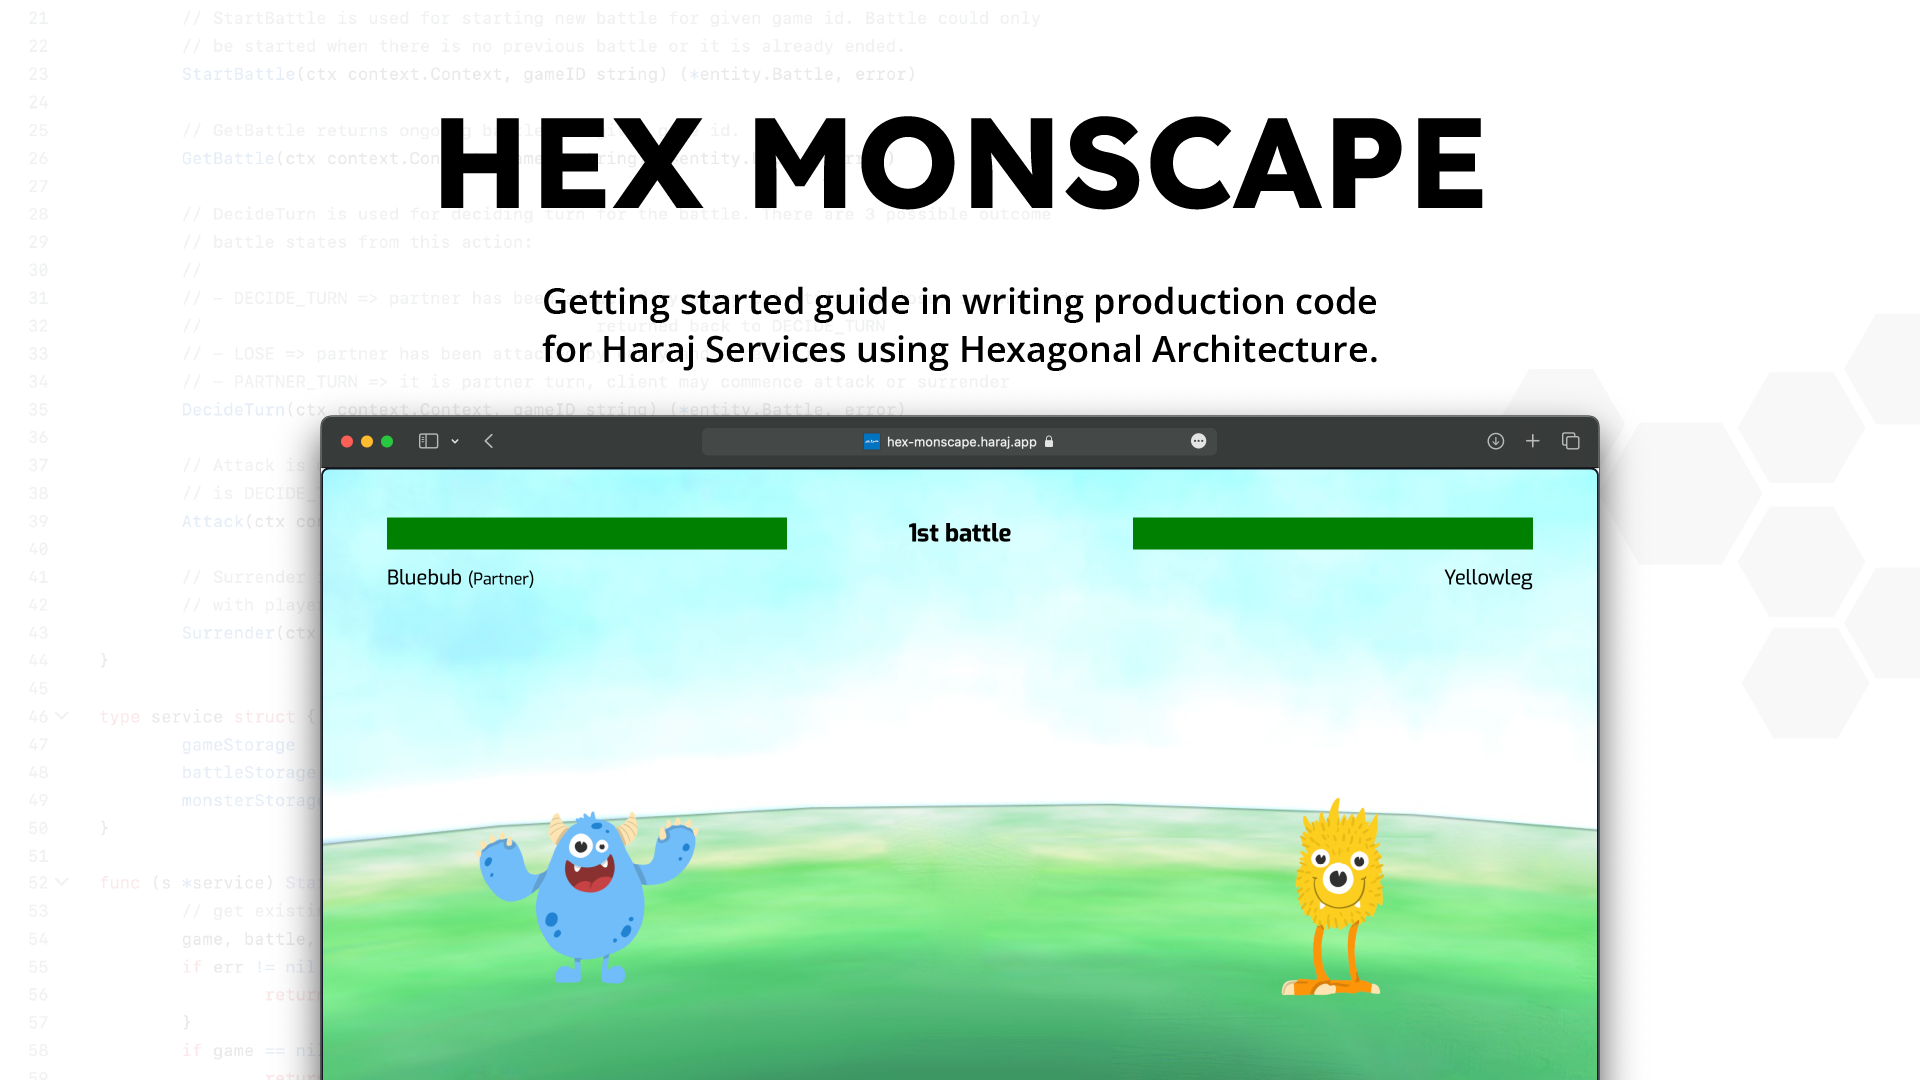
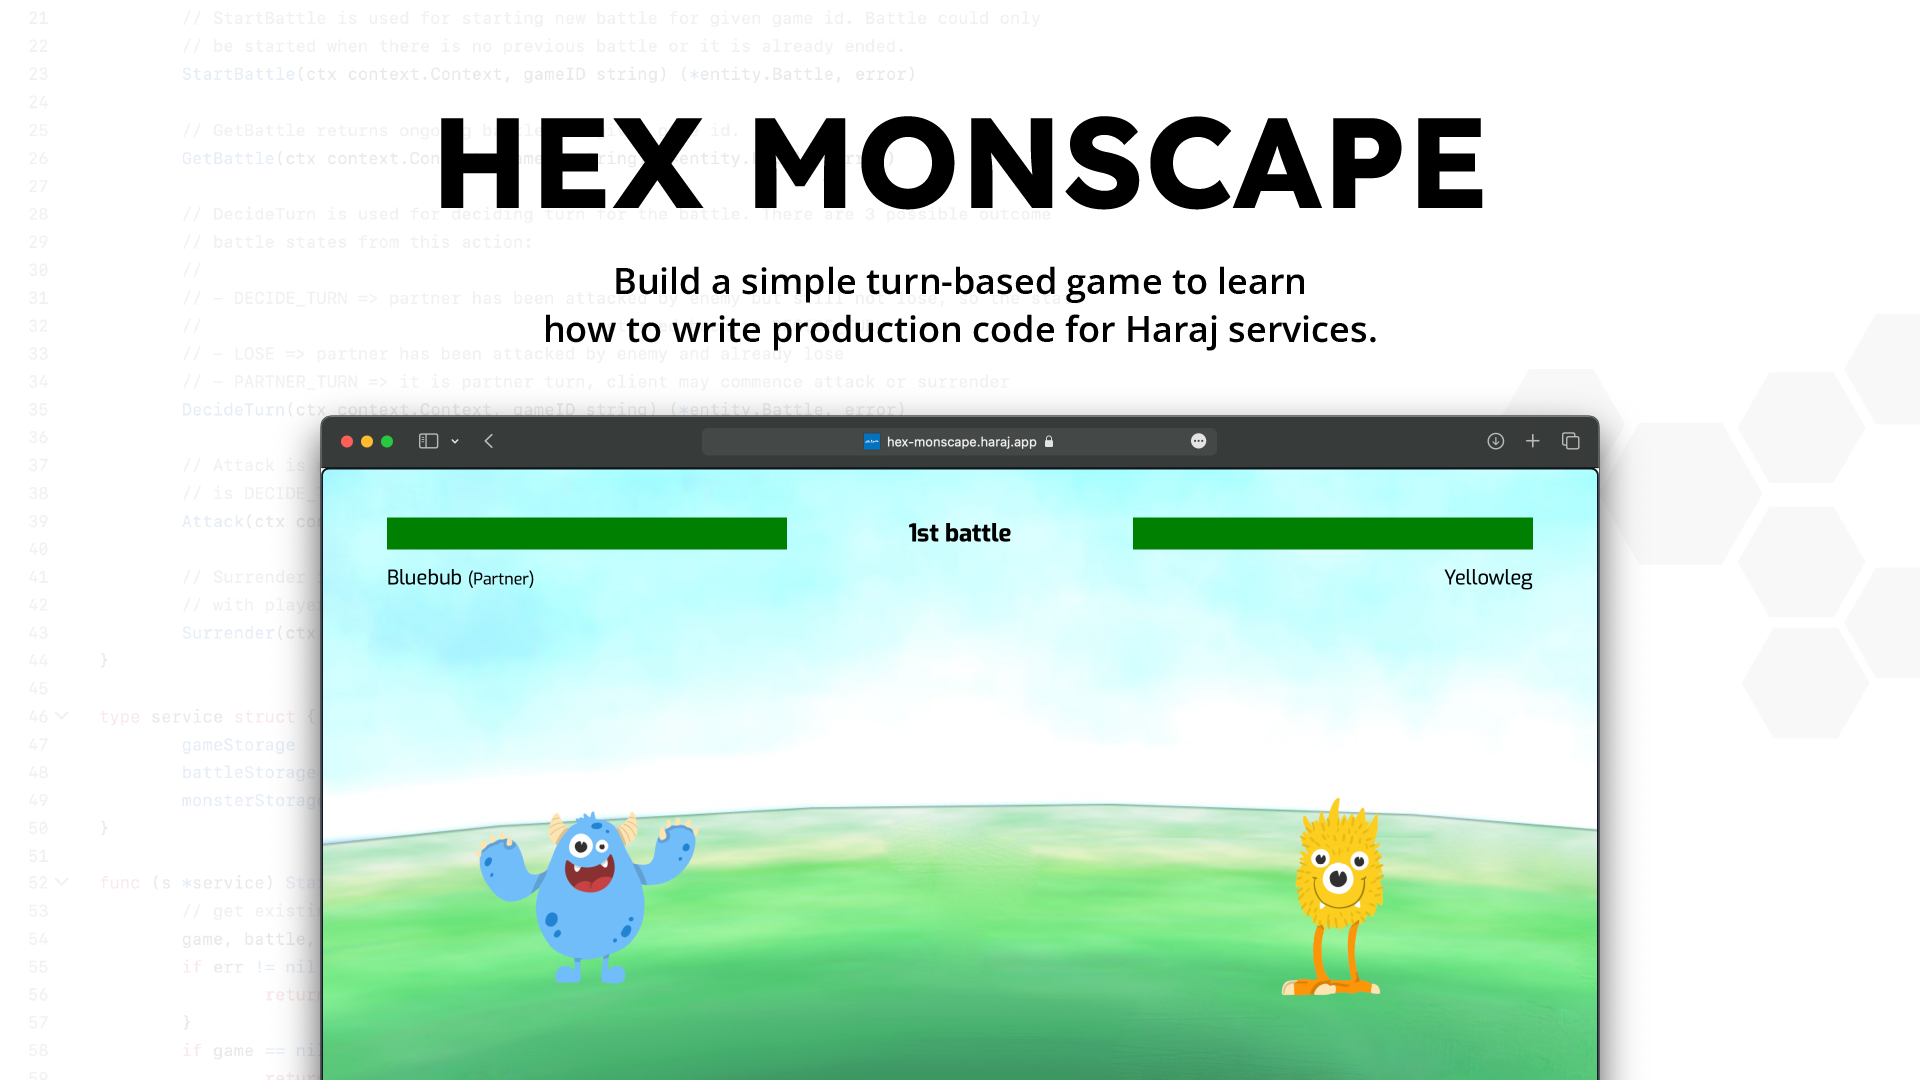
docs: update preview image; refine narrative in README.md;

Changed region(s): [[0.2812, 0.2444, 0.7188, 0.3361]]

diff --git a/README.md b/README.md
@@ -14,9 +14,9 @@ The secret technique actually lies in the software architecture we choose for th
 
 By using this remarkable architecture, not only can we speed up the project development but also make it maintainable by the whole team.
 
-This is why even though our team is small, we can still create services that help serve millions of people daily in Saudi Arabia while still having a good sleep. 🤣
+This is why even though our team is small, we can still create services that help serve millions of people daily in Saudi Arabia while still sleeping well at night. 🤣
 
-This game was created using [Golang](https://go.dev/) & [Vue 3](https://vuejs.org/). To learn on how we apply [Hexagonal Architecture](./docs/reference/hex-architecture.md) to this game, please refer to [this doc](./docs/reference/hex-architecture.md).
+This game was created using [Golang](https://go.dev/) & [Vue 3](https://vuejs.org/). Please refer to [this doc]((./docs/reference/hex-architecture.md)) to learn how we apply [Hexagonal Architecture](./docs/reference/hex-architecture.md) to this game.
 
 To start playing the game, please refer to [How to Run The Game](#how-to-run-the-game) section.
 
@@ -30,11 +30,11 @@ To start playing the game, please refer to [How to Run The Game](#how-to-run-the
 
 One of the most significant engineering issues in [Haraj](https://haraj.com.sa) is code maintainability.
 
-What is code maintainability? It is the ability of a codebase to be easily maintained by other developers. So when a developer can no longer maintain the codebase, other developers could easily take over the code they left behind.
+What is code maintainability? Essentially it is the ability of a codebase to be easily maintained by others. So when a developer can no longer maintain the codebase, other developers could easily take over the code they left behind.
 
-As you may already know, Haraj engineering team is relatively small. So in our early days, we gave project ownership to the developer who started the project. This developer will be responsible for every aspect of the project: writing the code, deploying it to production, & maintaining it.
+As you may already know, Haraj engineering team is small. So in our early days, we gave project ownership to the developer who started the project. This developer will be responsible for every aspect of the project development: writing the code, deploying it to production, & maintaining it.
 
-At that time, we did not set up common standards for writing code for those projects. So every developer writes code based on their style & preferences with almost no consideration for other developers.
+At that time, we made a mistake by not setting up common standards for writing code for those projects. So every developer writes code based on their style & preferences with almost no consideration for other developers.
 
 Usually, our developers will stay for quite a long time (`~5 years`) before they leave. So when a developer leaves the team, they usually own several valuable projects for Haraj business. The problem is that since the projects were written in the developer's style, no one in the team could easily take over those projects. 😅
 
